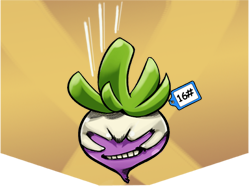
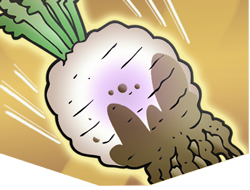
rework turnips

diff --git a/src/main/java/thesimpleton/cards/attack/GiantTurnip.java b/src/main/java/thesimpleton/cards/attack/GiantTurnip.java
@@ -2,8 +2,14 @@ package thesimpleton.cards.attack;
 
 import basemod.abstracts.CustomCard;
 import com.megacrit.cardcrawl.actions.AbstractGameAction;
+import com.megacrit.cardcrawl.actions.animations.VFXAction;
 import com.megacrit.cardcrawl.actions.common.DamageAction;
+import com.megacrit.cardcrawl.actions.common.DamageAllEnemiesAction;
+import com.megacrit.cardcrawl.actions.common.MakeTempCardInDiscardAction;
 import com.megacrit.cardcrawl.actions.common.MakeTempCardInHandAction;
+import com.megacrit.cardcrawl.actions.defect.ChannelAction;
+import com.megacrit.cardcrawl.actions.utility.SFXAction;
+import com.megacrit.cardcrawl.actions.utility.WaitAction;
 import com.megacrit.cardcrawl.cards.AbstractCard;
 import com.megacrit.cardcrawl.cards.DamageInfo;
 import com.megacrit.cardcrawl.characters.AbstractPlayer;
@@ -11,7 +17,10 @@ import com.megacrit.cardcrawl.core.CardCrawlGame;
 import com.megacrit.cardcrawl.dungeons.AbstractDungeon;
 import com.megacrit.cardcrawl.localization.CardStrings;
 import com.megacrit.cardcrawl.monsters.AbstractMonster;
+import com.megacrit.cardcrawl.orbs.Plasma;
+import com.megacrit.cardcrawl.vfx.combat.WeightyImpactEffect;
 import thesimpleton.TheSimpletonMod;
+import thesimpleton.cards.SimpletonUtil;
 import thesimpleton.cards.TheSimpletonCardTags;
 import thesimpleton.cards.power.crop.Turnips;
 
@@ -26,7 +35,7 @@ public class GiantTurnip extends CustomCard {
 
   private static final CardType TYPE = CardType.ATTACK;
   private static final CardRarity RARITY = CardRarity.COMMON;
-  private static final CardTarget TARGET = CardTarget.ENEMY;
+  private static final CardTarget TARGET = CardTarget.ALL_ENEMY;
 
   private static final int COST = 0;
   private static final int DAMAGE = 3;
@@ -46,10 +55,19 @@ public class GiantTurnip extends CustomCard {
 
   @Override
   public void use(AbstractPlayer p, AbstractMonster m) {
-    final int totalDamage = this.damage;
-    AbstractDungeon.actionManager.addToBottom(new DamageAction(m, new DamageInfo(p, totalDamage, this.damageTypeForTurn),
-          AbstractGameAction.AttackEffect.BLUNT_HEAVY));
-    AbstractDungeon.actionManager.addToBottom(new MakeTempCardInHandAction(new Turnips(), 1));
+
+    for (AbstractMonster monster : SimpletonUtil.getMonsters()) {
+      AbstractDungeon.actionManager.addToBottom(new VFXAction(new WeightyImpactEffect(monster.hb.cX, monster.hb.cY)));
+    }
+
+    AbstractDungeon.actionManager.addToBottom(new WaitAction(0.5F));
+
+    AbstractDungeon.actionManager.addToBottom(new DamageAllEnemiesAction(p, this.multiDamage, this.damageTypeForTurn,
+        AbstractGameAction.AttackEffect.NONE));
+
+    AbstractDungeon.actionManager.addToBottom(new SFXAction("BLUNT_FAST"));
+
+    AbstractDungeon.actionManager.addToBottom(new MakeTempCardInDiscardAction(new Turnips(), 1));
   }
 
   @Override
